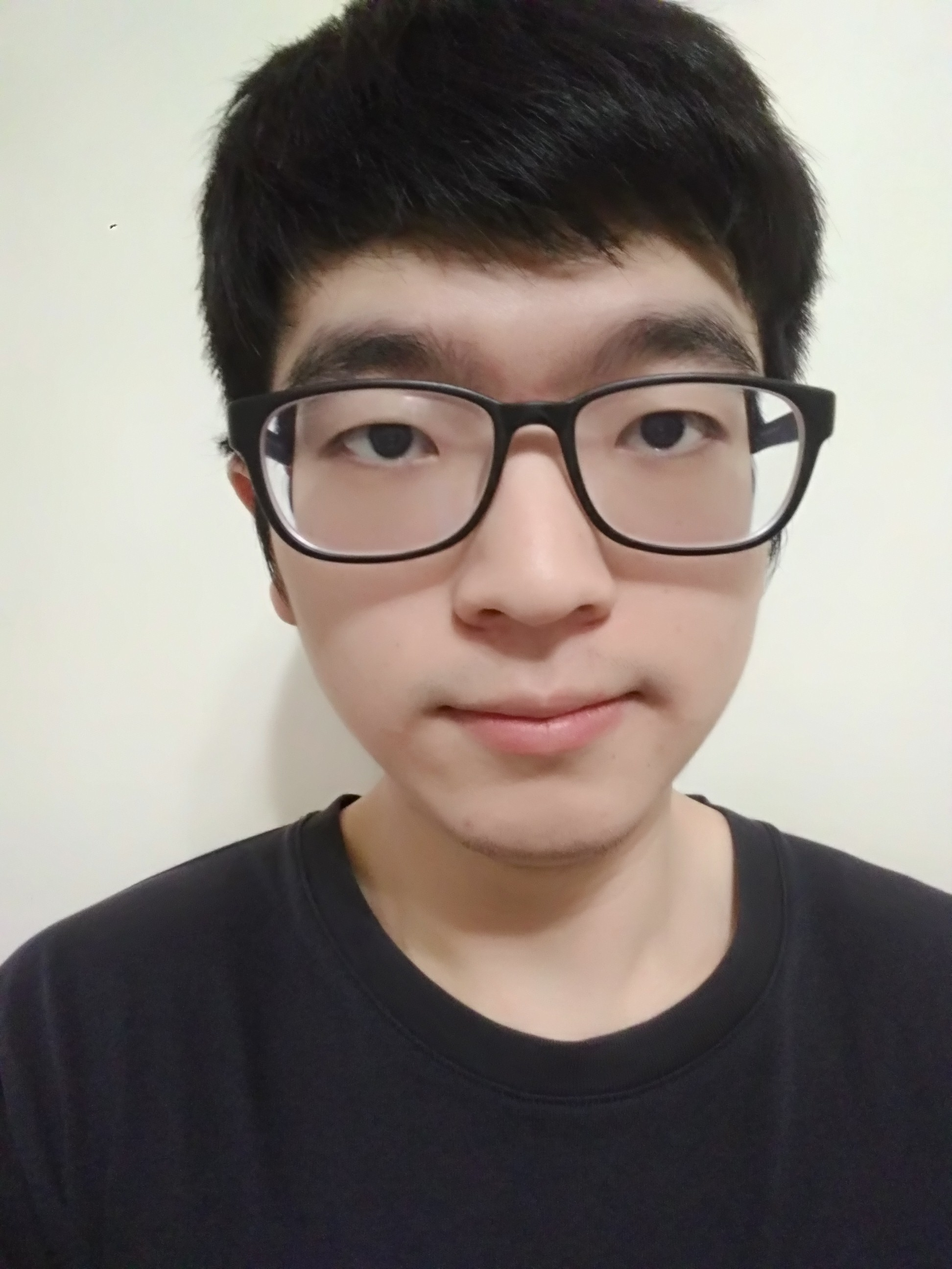
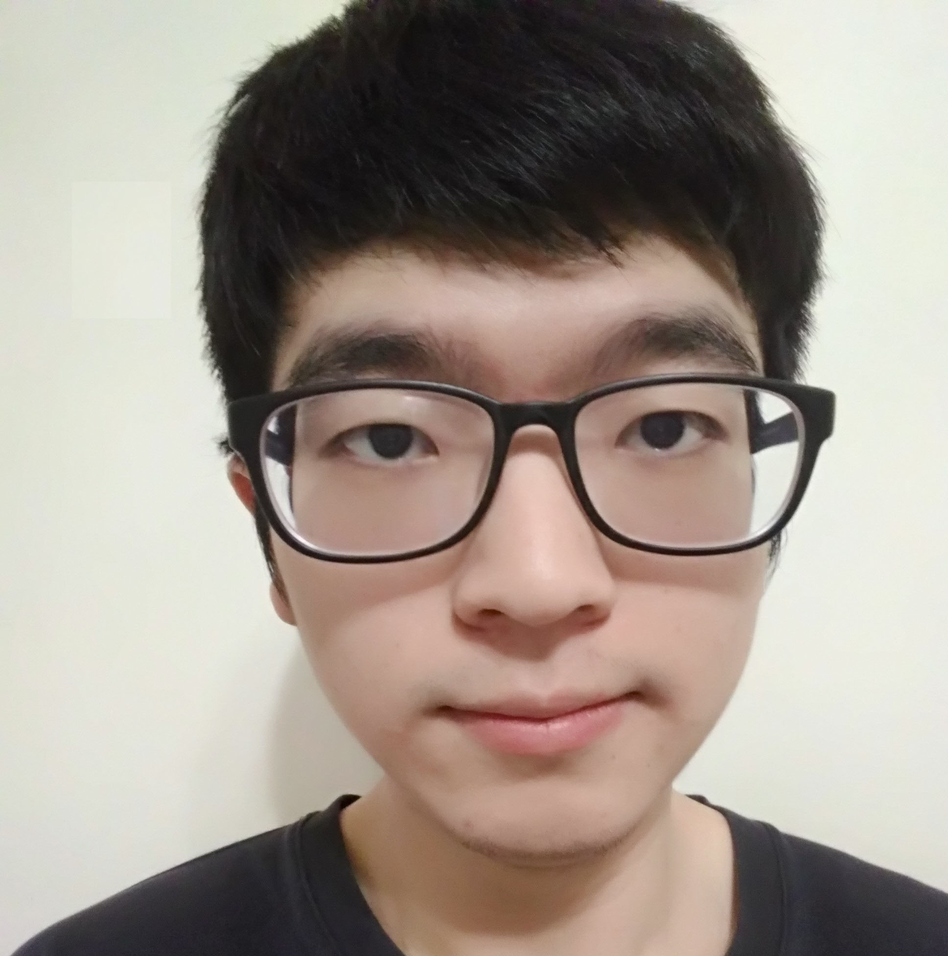
'kuo'

diff --git a/index.html b/index.html
@@ -50,12 +50,14 @@
     .works-content{padding: 100px 0}
     .works-content h2 {font-size: 40px}
     .contact{height: 600px;text-align: center;margin: auto}
-    .contact-content{padding: 100px 0}
+    .contact-content{padding-top: 100px}
     .contact-content h2 {font-size: 40px}
     .contact-content h4 {font-size: 22px}
     .contact-content p {margin: 7px 0 15px}
     .myphoto{margin: 30px 0}
-    .photo {width: 234px;height: 234px;object-fit: cover;border-radius: 50%;object-position: center top}
+    .photo {width: 234px;height: 234px;object-fit: cover;border-radius: 50%;object-position: center top;
+    border: #17181c solid 9px}
+    .github img{width: 40px;border-radius: 50%;}
     @media (max-width:618px){
       .link{display: none;}
     }
@@ -163,6 +165,9 @@
             </div>
             <h4>Kuo</h4>
             <p>v8661087@gmail.com</p>
+            <div class="github">
+              <a href="https://github.com/v8661087"><img src="images/github.png"></a>
+            </div>
           </div>		
         </div>
     </div>
